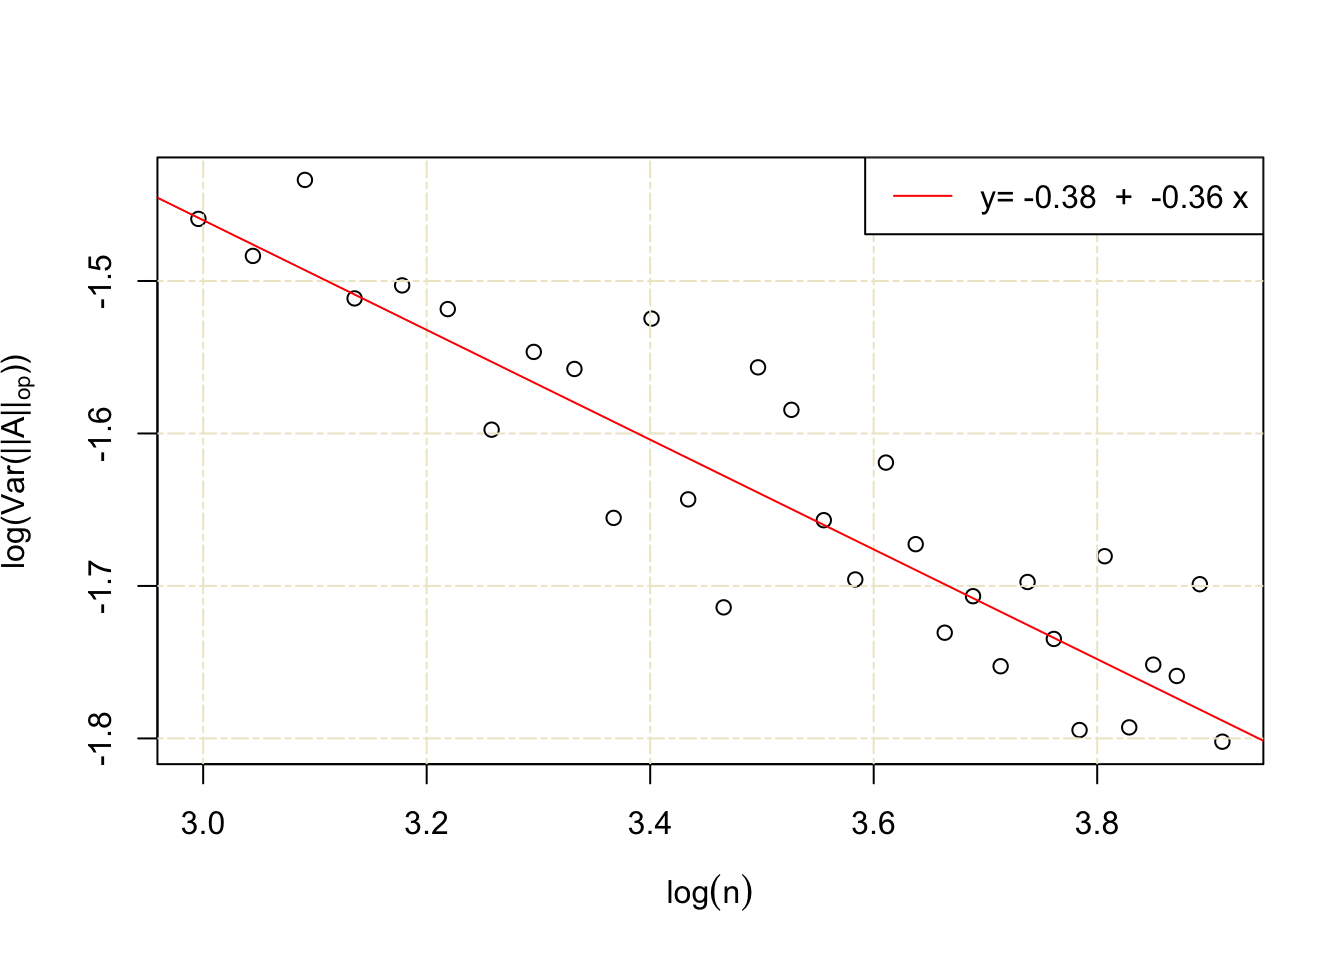
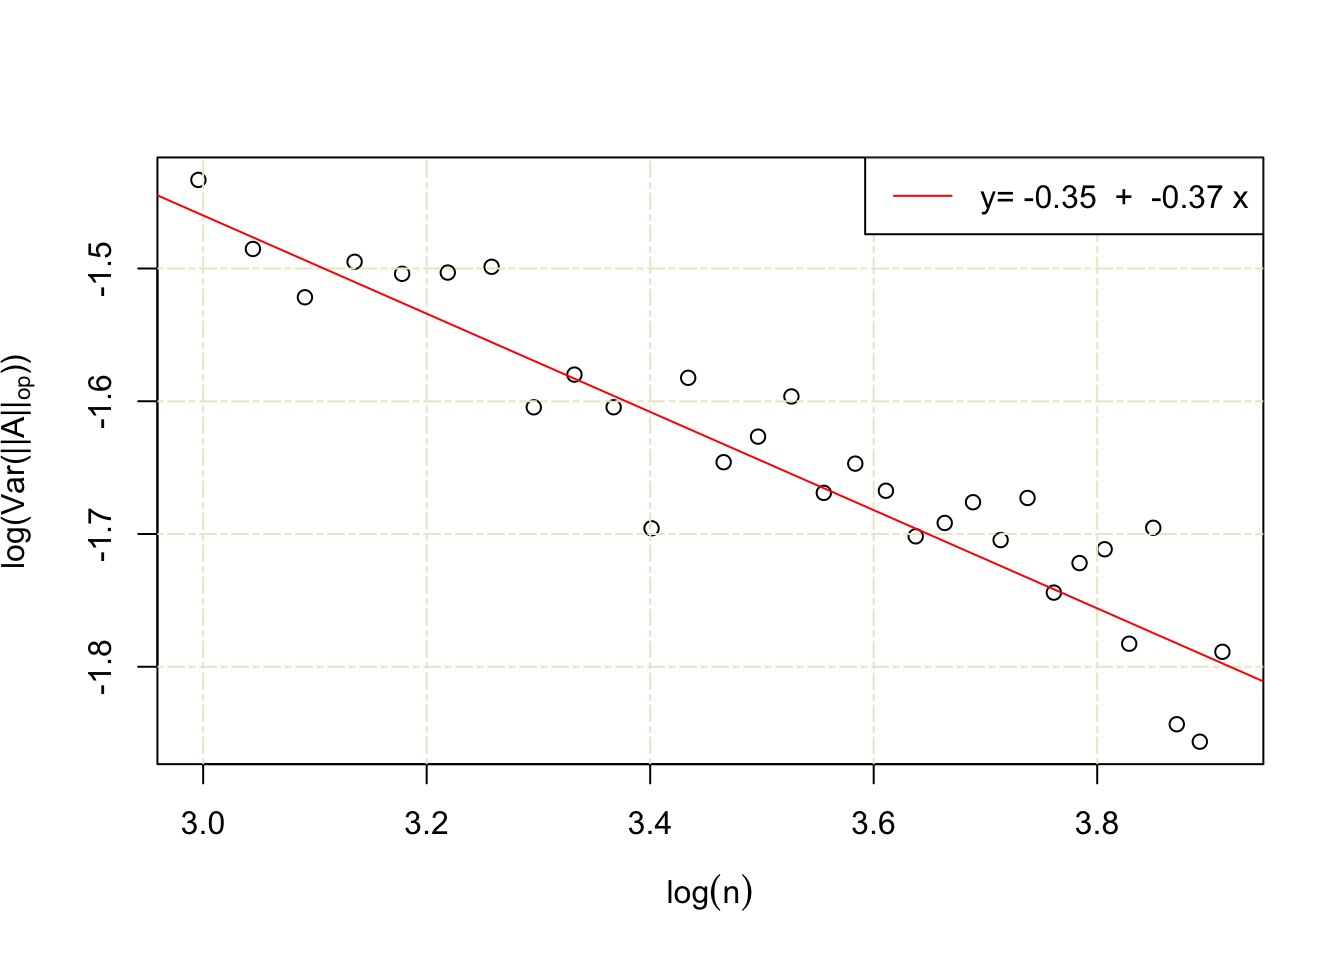
Second Post 4

diff --git a/content/posts/2020-08-22-sharp-bounds-on-spectral-norm-of-a-random-matrix.html b/content/posts/2020-08-22-sharp-bounds-on-spectral-norm-of-a-random-matrix.html
@@ -92,7 +92,7 @@ Below is a simple simulation study with 1000 replications for each <span class="
 </div>
 <div id="variance-bound-for-spectral-norm" class="section level2">
 <h2>Variance Bound for Spectral Norm</h2>
-<p>Thus far we proved <span class="math inline">\(||A||_{op}\)</span> is 1-subgaussian, moreover its variance is bounded by one in the case of standard normal entries due to the fact that it’s 1-Lipschitz. However the following simulation indicates that spectral norm enjoys superconcentration and its variance behaves roughly as <span class="math inline">\(1/n^{\frac{1}{3}}\)</span>, thus Lipschitz concentration once again has failed to capture the underlying truth!<a href="#fn9" class="footnote-ref" id="fnref9"><sup>9</sup></a></p>
+<p>Thus far we proved <span class="math inline">\(||A||_{op}\)</span> is 1-subgaussian, moreover its variance is bounded by one in the case of standard normal entries due to the fact that it’s 1-Lipschitz. However the following simulation indicates that spectral norm enjoys superconcentration and its variance behaves roughly as <span class="math inline">\((\sqrt{n} +\sqrt{m})(1/\sqrt{n} + 1/\sqrt{m})^{\frac{1}{3}}\)</span>, thus Lipschitz concentration once again has failed to capture the underlying truth!<a href="#fn9" class="footnote-ref" id="fnref9"><sup>9</sup></a> In this simulation <span class="math inline">\(m=n\)</span> and the variance was estimated over 1000 replications. Note that the slope of the line should be close to <span class="math inline">\(-\frac{1}{3}\)</span>.</p>
 <p><img src="/posts/2020-08-22-sharp-bounds-on-spectral-norm-of-a-random-matrix_files/figure-html/unnamed-chunk-2-1.png" width="672" />
 It demands much more theory to prove this variance bound which I personally believe is one of the cases that the amount of effort that should be invested into proving it does not pay off proportionally!</p>
 </div>
